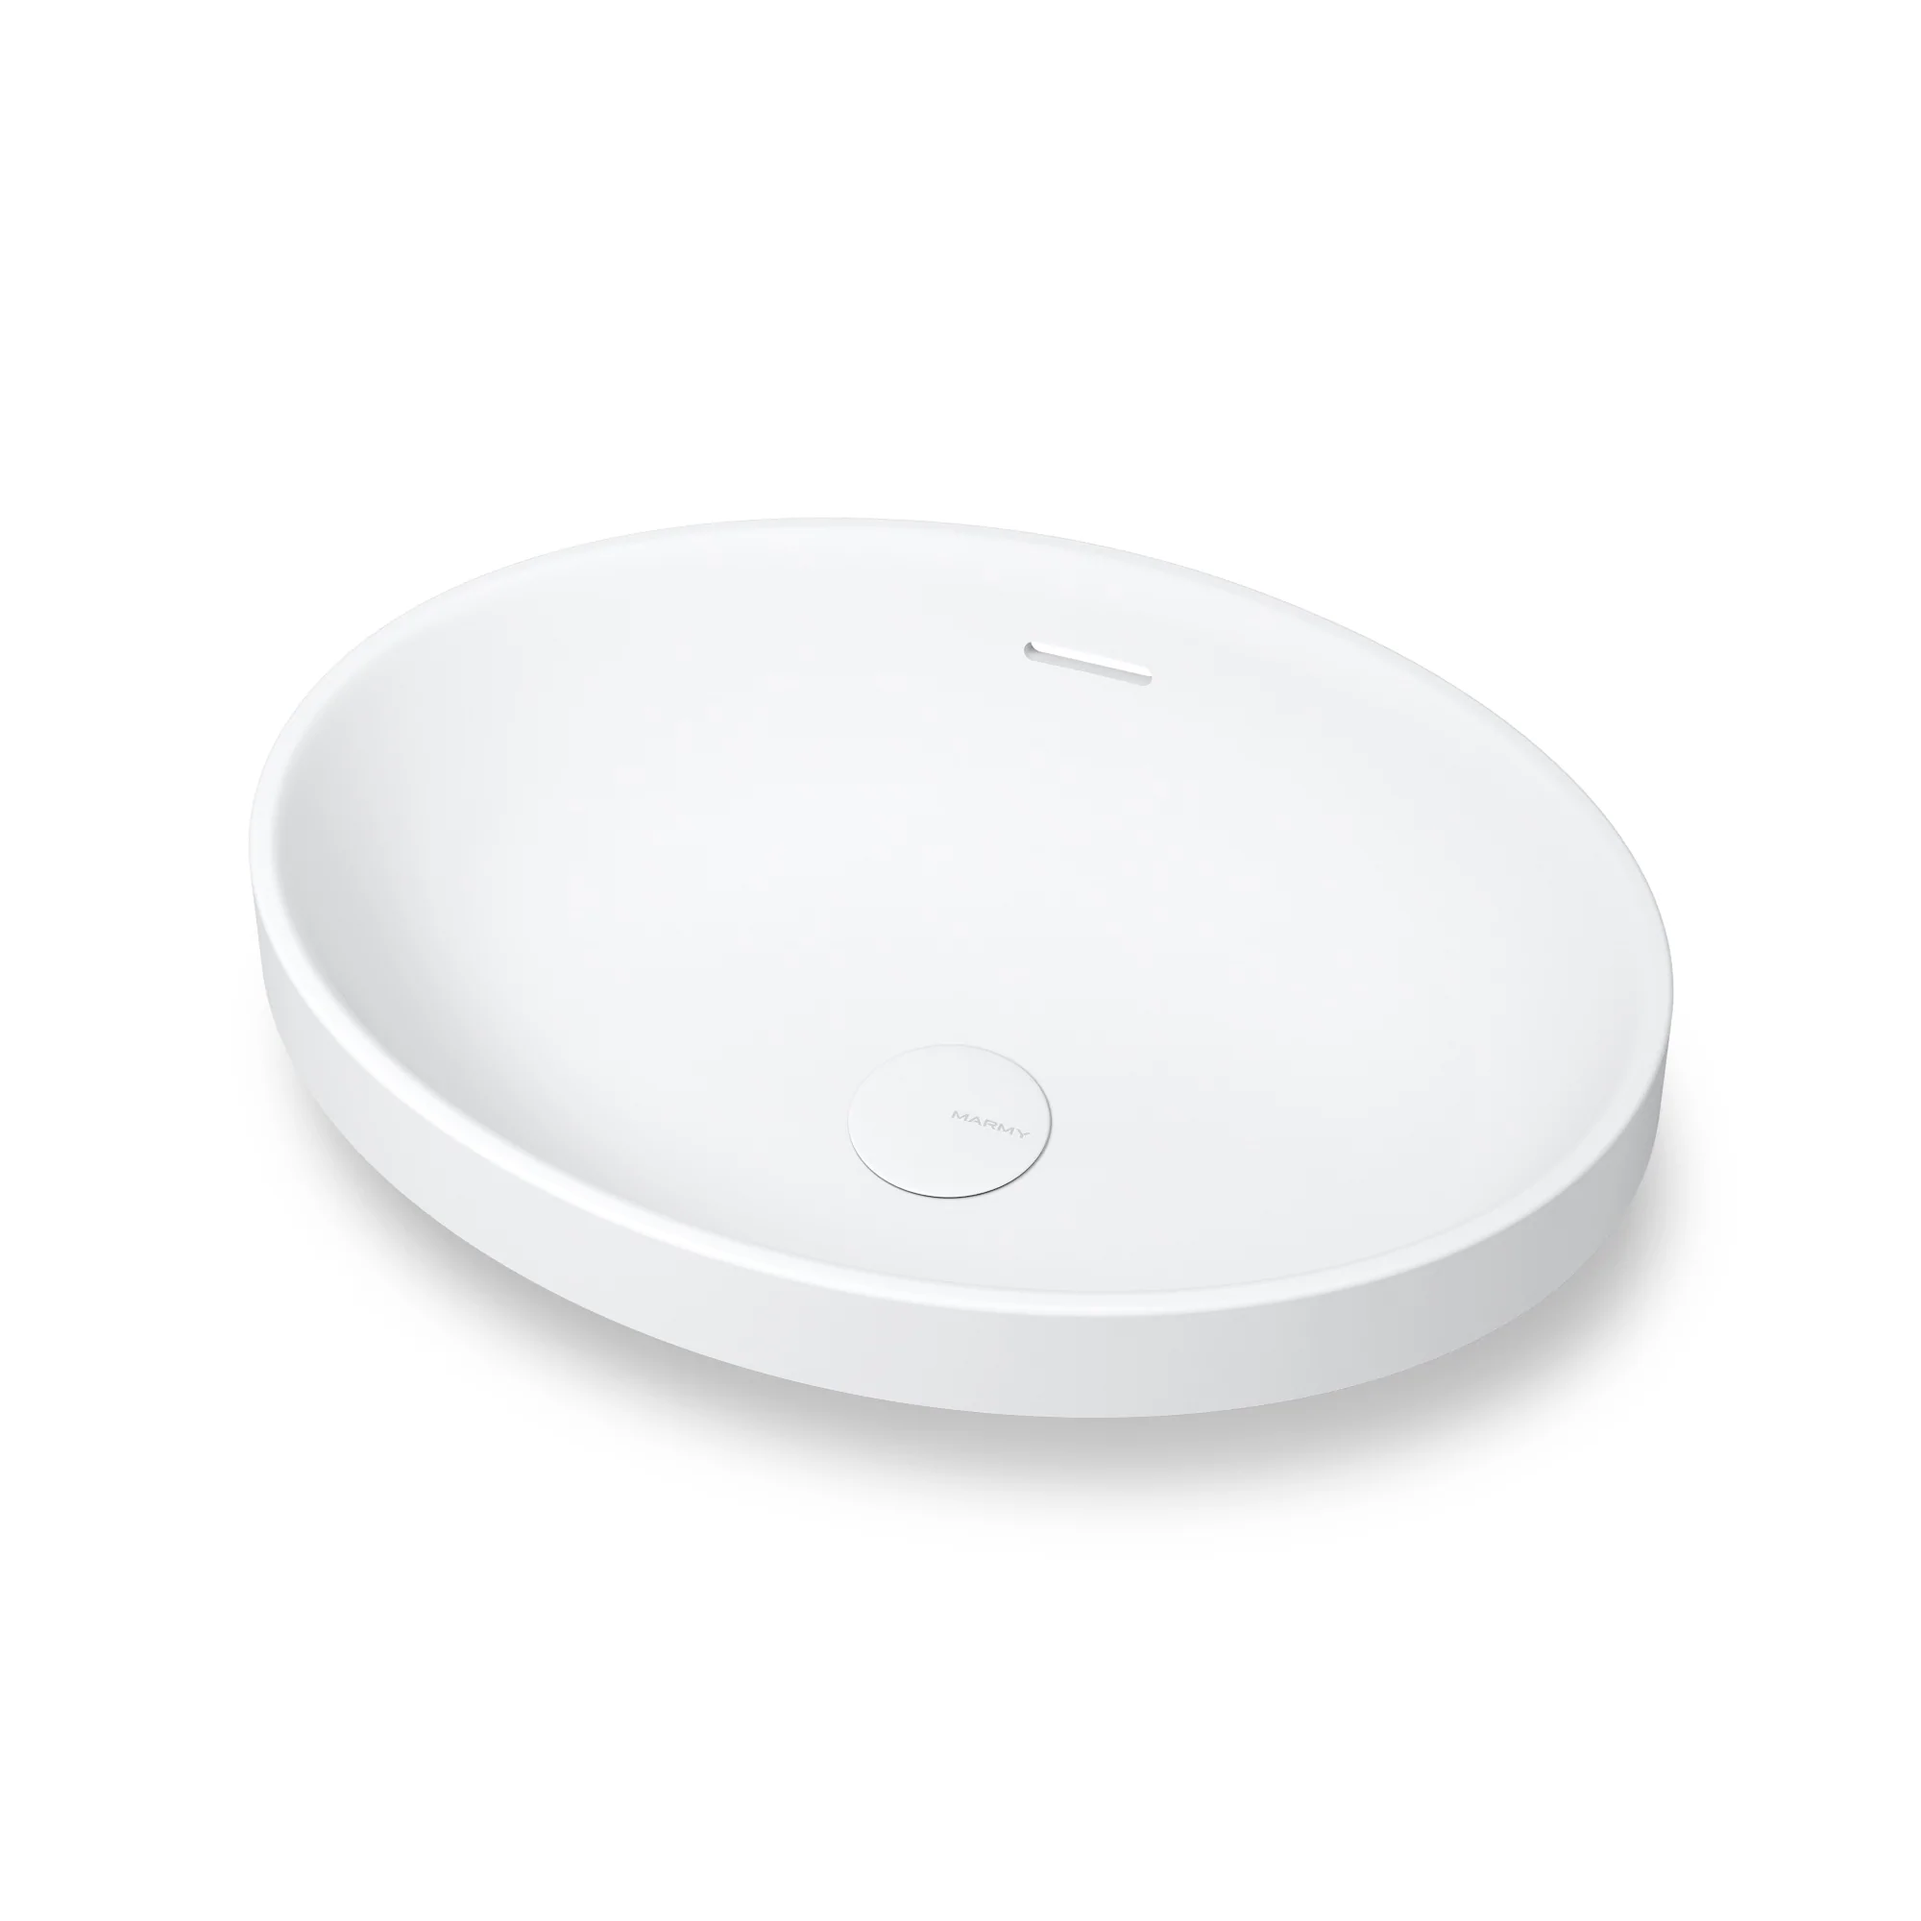
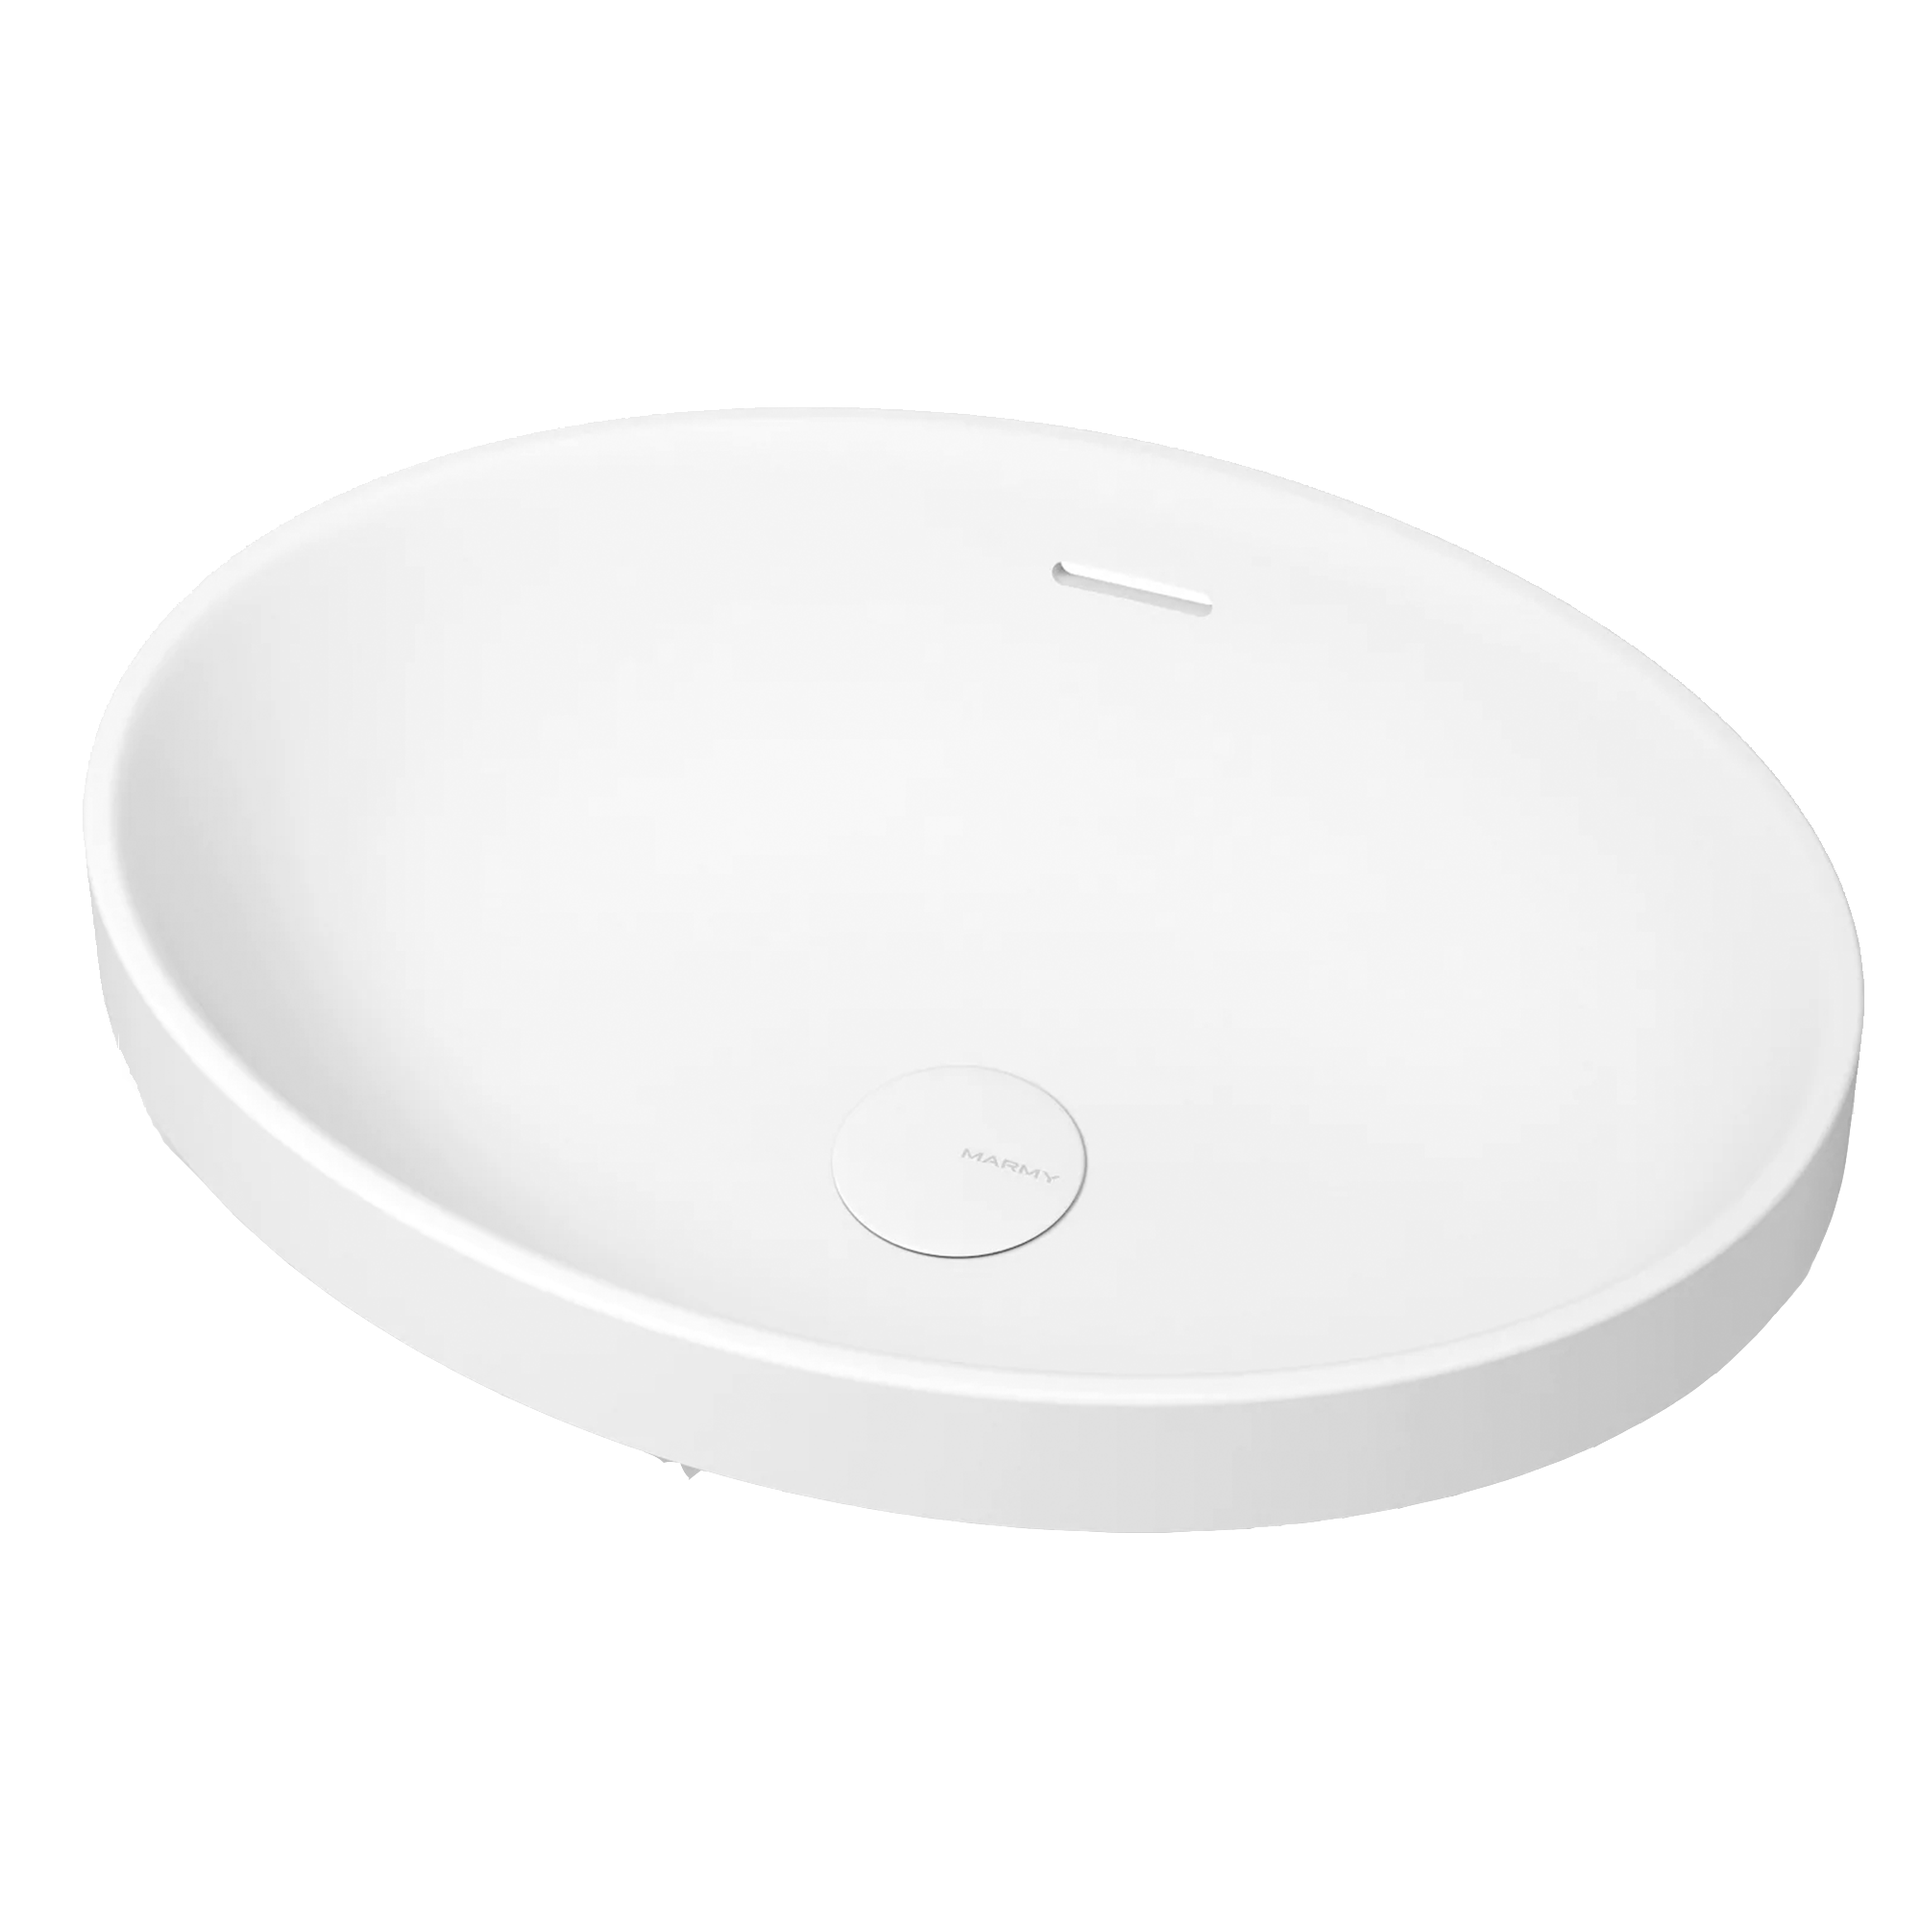
mosdo cutout

diff --git a/kategoriak.html b/kategoriak.html
@@ -209,7 +209,7 @@
       <div  class="tab-pane fade" id="kategoria-mosdo">
 
         <div class="row gy-5">
-          <div class="col-lg-4 menu-item">
+          <div class="col-lg-4 col-md-6 col-xl-4 col-lg-6 menu-item">
           <div class="text-center mb-4">
             <a href="src/mosdo/mosdo1.png" class="glightbox"><img src="src/mosdo/mosdo1.png" class="img-fluid termekkep" alt=""></a>
           </div>
@@ -227,7 +227,7 @@
               65,990.-Ft
             </p>
           </div><!-- Menu Item -->
-          <div class="col-lg-4 menu-item">
+          <div class="col-lg-4 col-md-6 col-xl-4 col-lg-6 menu-item">
           <div class="text-center mb-4">
             <a href="src/mosdo/mosdo2.png" class="glightbox"><img src="src/mosdo/mosdo2.png" class="img-fluid termekkep" alt=""></a>
           </div>
@@ -245,7 +245,7 @@
               59,990.-Ft
             </p>
           </div><!-- Menu Item -->
-          <div class="col-lg-4 menu-item">
+          <div class="col-lg-4 col-md-6 col-xl-4 col-lg-6 menu-item">
           <div class="text-center mb-4">
             <a href="src/mosdo/mosdo3.png" class="glightbox"><img src="src/mosdo/mosdo3.png" class="img-fluid termekkep" alt=""></a>
           </div>
@@ -263,7 +263,7 @@
               45,600.-Ft
             </p>
           </div><!-- Menu Item -->
-          <div class="col-lg-4 menu-item">
+          <div class="col-lg-4 col-md-6 col-xl-4 col-lg-6 menu-item">
           <div class="text-center mb-4">
             <a href="src/mosdo/mosdo4.png" class="glightbox"><img src="src/mosdo/mosdo4.png" class="img-fluid termekkep" alt=""></a>
           </div>
@@ -281,11 +281,11 @@
               54,600.-Ft
             </p>
           </div><!-- Menu Item -->
-          <div class="col-lg-4 menu-item">
+          <div class="col-lg-4 col-md-6 col-xl-4 col-lg-6 menu-item">
           <div class="text-center mb-4">
             <a href="src/mosdo/mosdo5.png" class="glightbox"><img src="src/mosdo/mosdo5.png" class="img-fluid termekkep" alt=""></a>
           </div>
-            <h4 class="termek">MARMY ANGELINA 61x46 mosdó</h4>
+            <h4 class="termek">ANGELINA 61x46 mosdó</h4>
             <p class="leiras">
               <ul>
                 <li>Cikkszám: 6 229 03 06 11 18</li>
@@ -299,7 +299,7 @@
               59,990.-Ft
             </p>
           </div><!-- Menu Item -->
-          <div class="col-lg-4 menu-item">
+          <div class="col-lg-4 col-md-6 col-xl-4 col-lg-6 menu-item">
           <div class="text-center mb-4">
             <a href="src/mosdo/mosdo6.png" class="glightbox"><img src="src/mosdo/mosdo6.png" class="img-fluid termekkep" alt=""></a>
           </div>
@@ -317,11 +317,11 @@
               41,900.-Ft
             </p>
           </div><!-- Menu Item -->
-          <div class="col-lg-4 menu-item">
+          <div class="col-lg-4 col-md-6 col-xl-4 col-lg-6 menu-item">
           <div class="text-center mb-4">
             <a href="src/mosdo/mosdo7.png" class="glightbox"><img src="src/mosdo/mosdo7.png" class="img-fluid termekkep" alt=""></a>
           </div>
-            <h4 class="termek">MARMY ASPEN 140x51 D mosdó</h4>
+            <h4 class="termek">ASPEN 140x51 D mosdó</h4>
             <p class="leiras">
               <ul>
                 <li>Cikkszám: 80 7207 14 42 10</li>
@@ -335,11 +335,11 @@
               95,990.-Ft
             </p>
           </div><!-- Menu Item -->
-          <div class="col-lg-4 menu-item">
+          <div class="col-lg-4 col-md-6 col-xl-4 col-lg-6 menu-item">
           <div class="text-center mb-4">
             <a href="src/mosdo/mosdo8.png" class="glightbox"><img src="src/mosdo/mosdo8.png" class="img-fluid termekkep" alt=""></a>
           </div>
-            <h4 class="termek">BERGAMO MAX 120x46 C mosdó</h4>
+            <h4 class="termek">BERGAMO 120x46 C mosdó</h4>
             <p class="leiras">
               <ul>
                 <li>Cikkszám: 80 8138 12 11 10</li>
@@ -353,7 +353,7 @@
               128,900.-Ft
             </p>
           </div><!-- Menu Item -->
-          <div class="col-lg-4 menu-item">
+          <div class="col-lg-4 col-md-6 col-xl-4 col-lg-6 menu-item">
           <div class="text-center mb-4">
             <a href="src/mosdo/mosdo9.png" class="glightbox"><img src="src/mosdo/mosdo9.png" class="img-fluid termekkep" alt=""></a>
           </div>
@@ -371,11 +371,11 @@
               108,900.-Ft
             </p>
           </div><!-- Menu Item -->
-          <div class="col-lg-4 menu-item">
+          <div class="col-lg-4 col-md-6 col-xl-4 col-lg-6 menu-item">
           <div class="text-center mb-4">
-            <a href="src/mosdo/mosdo10.png" class="glightbox"><img src="src/mosdo/mosdo9.png" class="img-fluid termekkep" alt=""></a>
+            <a href="src/mosdo/mosdo10.png" class="glightbox"><img src="src/mosdo/mosdo10.png" class="img-fluid termekkep" alt=""></a>
           </div>
-            <h4 class="termek">ZEN D37x13 matt fehér mosdó</h4>
+            <h4 class="termek">ZEN D37x13 mosdó</h4>
             <p class="leiras">
               <ul>
                 <li>Cikkszám: 80 8328 04 10 11</li>
@@ -389,7 +389,7 @@
               98,900.-Ft
             </p>
           </div><!-- Menu Item -->
-          <div class="col-lg-4 menu-item">
+          <div class="col-lg-4 col-md-6 col-xl-4 col-lg-6 menu-item">
           <div class="text-center mb-4">
             <a href="src/mosdo/mosdo11.png" class="glightbox"><img src="src/mosdo/mosdo11.png" class="img-fluid termekkep" alt=""></a>
           </div>
@@ -407,7 +407,7 @@
               118,900.-Ft
             </p>
           </div><!-- Menu Item -->
-          <div class="col-lg-4 menu-item">
+          <div class="col-lg-4 col-md-6 col-xl-4 col-lg-6 menu-item">
           <div class="text-center mb-4">
             <a href="src/mosdo/mosdo12.png" class="glightbox"><img src="src/mosdo/mosdo12.png" class="img-fluid termekkep" alt=""></a>
           </div>
